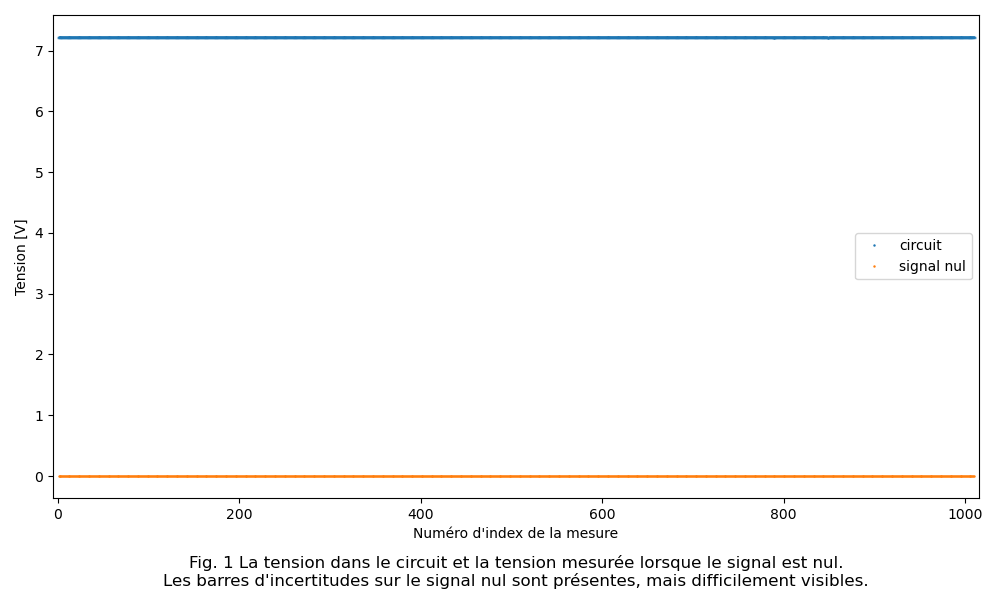
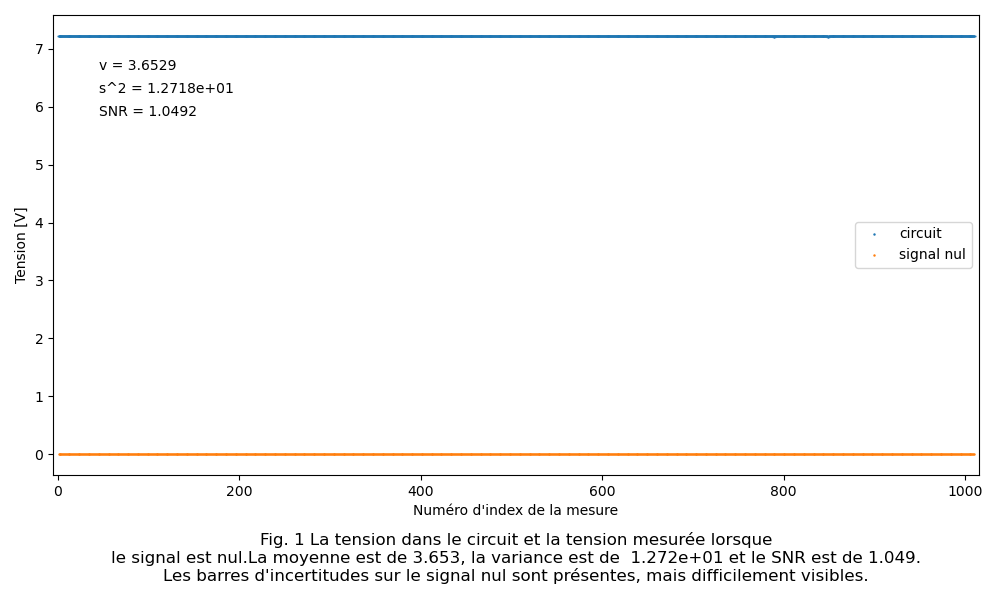
Modifications graphique

diff --git a/Labo1/Programmation/Graphique_tension_constante.py b/Labo1/Programmation/Graphique_tension_constante.py
@@ -3,12 +3,11 @@ import matplotlib.pyplot as plt
 import numpy as np
 import os
 
-
 # Choisir le directory pour les figures et le créer s'il n'existe pas.
 plot_dir = os.path.join("Labo1/Figures/tension_constante")
 os.makedirs(plot_dir, exist_ok=True)
 
-# Les fichiers de données dans l'ordres demandés par le protocoles. Cela permet de simplement appeler files[4] par ex.
+# Les fichiers de données
 files = ['Labo1/Mesures/convertisseur_090925_01.lvm',               #0
          'Labo1/Mesures/convertisseur_débranché_090925_01.lvm',     #1    
          'Labo1/Mesures/convertisseur_débranché_090925_02.lvm',     #2
@@ -24,7 +23,7 @@ files = ['Labo1/Mesures/convertisseur_090925_01.lvm',               #0
          'Labo1/Mesures/voltage_circuit_100925_01.lvm'              #12
          ]
 
-# Dictionnaire avec des descriptions qu'on peut appeler pour le titre de chaque figure.
+# Descriptions et légendes
 description = {0: 'le convertisseur',
         4: "la pomme de terre avec une tige d'aluminium et d'inox",
         5: "la pomme de terre avec une tige d'aluminium et d'inox",
@@ -37,7 +36,6 @@ description = {0: 'le convertisseur',
         12: "le circuit"
         }
 
-# Dictionnaire qu'on peut appeler pour faire les légendes.
 nom = {0: 'convertisseur',
        4: "aluminium - inox",
        5: "aluminium - inox",
@@ -50,36 +48,31 @@ nom = {0: 'convertisseur',
        12: "circuit"
        }
 
-num = 12     # L'index du fichier utilisé.
+num = 0     # L'index du fichier utilisé.
 filepath = files[num]
 
 def read(file_name):
     df = pd.read_csv(file_name, sep="\t", skiprows=22, decimal=",")
     df = df.iloc[:, 1:].copy()
-
-    col = 1 # On ne prend qu'une seule colonne si nous n'avons qu'une seule colonne de données.
-    if df.shape[1] == 3:    # On prend 2 colonnes si on a deux colonnes de données (3 colonnes données par pandas).
+    col = 1
+    if df.shape[1] == 3:
         col = 2
-
     return df.to_numpy()[:, :col]
 
+# --- FIX: stats sur la colonne (et non la ligne) ---
+def moyenne(file_name, indice):
+    return float(np.mean(read(file_name)[:, indice]))
 
-def moyenne(file_name):
-    return np.average(read(file_name))
+def variance(file_name, indice):
+    return float(np.var(read(file_name)[:, indice], ddof=0))
 
-
-def variance(file_name):
-    return np.var(read(file_name))
-
-
-def snr(file_name):
-    return moyenne(file_name)**2/variance(file_name)
-
+def snr(file_name, indice):
+    m = moyenne(file_name, indice); v = variance(file_name, indice)
+    return (m*m)/v if v != 0 else np.inf
 
 def incertitude(array, indice):
     col = array[:, indice]
     return 0.5 * (np.max(col) - np.min(col))
-
 
 def graphiques_scatter(array):
     fig = plt.gcf()
@@ -87,28 +80,33 @@ def graphiques_scatter(array):
 
     bruit = read(files[3])
 
-    plt.plot(np.linspace(1, array.shape[0], array.shape[0]), array[:, 0], markersize=0.75, linestyle='none',
-             marker='o', label=nom[num])
-    plt.plot(np.linspace(1, array.shape[0], array.shape[0]), bruit[:, 0], markersize=0.75, linestyle='none',
-             marker='o', label="signal nul")
-    plt.errorbar(np.arange(1, array.shape[0] + 1), array[:, 0], yerr=incertitude(array, 0), fmt='none', elinewidth=0.6,
-                 capsize=1.5, alpha=0.6)
+    # --- FIX: abscisses propres à chaque série ---
+    x_sig = np.arange(1, array.shape[0] + 1)
+    x_brt = np.arange(1, bruit.shape[0] + 1)
+
+    plt.plot(x_sig, array[:, 0], markersize=0.75, linestyle='none', marker='o', label=nom[num])
+    plt.plot(x_brt,  bruit[:, 0], markersize=0.75, linestyle='none', marker='o', label="signal nul")
+
+    plt.errorbar(x_sig, array[:, 0], yerr=incertitude(array, 0), fmt='none',
+                 elinewidth=0.6, capsize=1.5, alpha=0.6)
 
     plt.xlim(-5, 1015)
-
     plt.legend()
     plt.xlabel("Numéro d'index de la mesure")
     plt.ylabel("Tension [V]")
 
-    # On met le titre en dessous pour se conformer aux exigences de Claubine
-    plt.title(f"Fig. 1 La tension dans {description[num]} et la tension mesurée lorsque\nle signal est nul."
-              f"La moyenne est de {round(moyenne(filepath), 3)}, la variance est de {variance(filepath): .3e} et "
-              f"le SNR est de {round(snr(filepath), 3)}."
-              f"\nLes barres d'incertitudes sur le signal nul sont présentes, mais difficilement visibles.",
-              y=-0.25)
-    
-    plt.tight_layout()
-    plt.savefig(plot_dir + f"/_{nom[num]}.png")
+    plt.title(
+        f"Fig. 1 La tension dans {description[num]} et la tension mesurée lorsque\nle signal est nul."
+        f"\nLes barres d'incertitudes sur le signal nul sont présentes, mais difficilement visibles.",
+        y=-0.25
+    )
 
+    ax = plt.gca()
+    ax.text(0.05, 0.88, f"v = {moyenne(filepath, 0):.3f}", transform=ax.transAxes)
+    ax.text(0.05, 0.83, f"s^2 = {variance(filepath, 0):.3f}", transform=ax.transAxes)
+    ax.text(0.05, 0.78, f"SNR = {snr(filepath, 0):.3f}", transform=ax.transAxes)
+
+    plt.tight_layout()
+    plt.savefig(os.path.join(plot_dir, f"_{nom[num]}.png"))
 
 graphiques_scatter(read(filepath))
